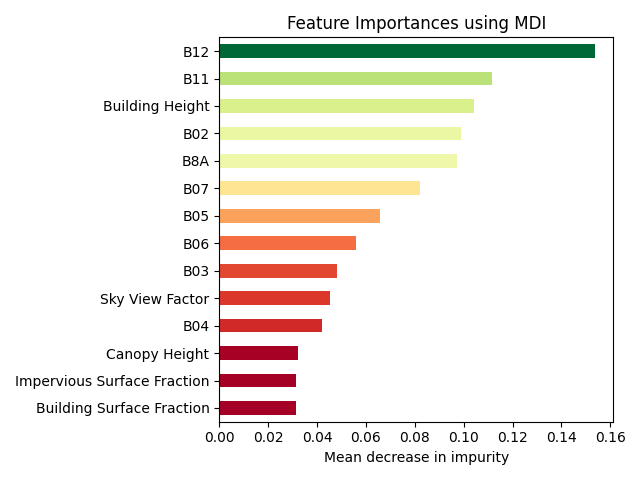
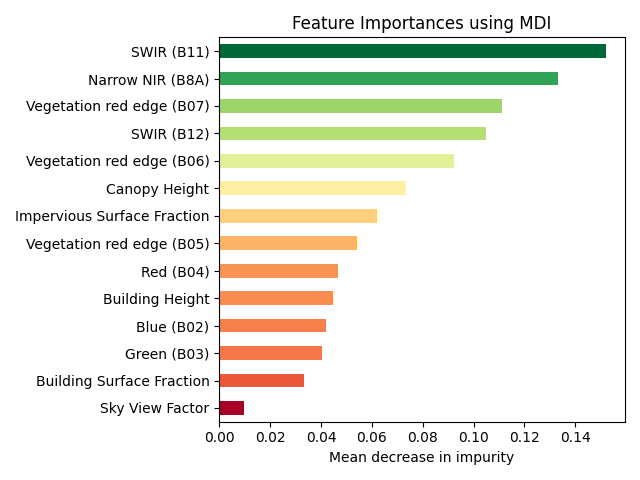
Updated README and Figures

diff --git a/README.md b/README.md
@@ -1,38 +1,49 @@
-# Local Climate Zone Classification using Random Forest with Sentinel-2A Imagery and Urban Canopy Parameters
+# Urban Heat Island Analysis using Local Climate Zones Classified by Random Forest Trained on Sentinel-2A Imagery and Urban Canopy Parameters
 
-This project is inspired by **Vavasorri et al. (2024)**:
+**Work in Progress 
 
-Alberto Vavassori, Daniele Oxoli, Giovanna Venuti, Maria Antonia Brovelli, Mario Siciliani de Cumis, Patrizia Sacco, Deodato Tapete, A combined Remote Sensing and GIS-based method for Local Climate Zone mapping using PRISMA and Sentinel-2 imagery, International Journal of Applied Earth Observation and Geoinformation, Volume 131, 2024, 103944, ISSN 1569-8432, https://doi.org/10.1016/j.jag.2024 103944.
-
-
+<img src="reports/figures/lcz_s2_map.png" alt="drawing" width="500"/>
 
 
+### 1. Local Climate Zones
 
-## Sentinel-2 Data Exploration of LCZ Training Areas
+The Urban Heat Island (UHI) effect is a phenomena whereby air temperatures in urban environments are significantly higher when compared to rural areas. Such an effect is largely due to the thermal properties of urban structures, which tend to absorb heat during the day and release it during the night. Traditional studies typically measured UHI using dichotomous urban / rural classification when comparing temperature trends. Such an approach fails to capture the diverse nature of urban areas, whereby building height, compactness and vegetation cover can vary substantially over space. Developed Stewart and Oke (2012), the Local Climate Zone (LCZ) classification scheme aims to characterise The scheme comprises 17 zones based mainly on properties of surface structure (e.g., building and tree height & density) and surface cover (pervious vs. impervious). Each zone is local in scale, meaning it represents horizontal distances of 100s of metres to several kilometres.  The scheme is a logical starting point for WUDAPT’s aim to gather consistent information across cities globally.
 
-### Pixel Counts 
 
-<img src="reports/figures/s2_pixel_counts.png" alt="drawing" width="500"/>
+### 2. A Toronto Case Study
 
-### Spectral Signature 
+This project explores the application of LCZs for understanding the UHI in the city of Toronto, Ontario. A study in 2021 found that Toronto experienced an annual average daytime UHI intensity of 4.3 C (Duan et al. 2024).
+
+Primary Objectives:
+1. Train a Random Forest classifier on Sentinel-2 Imagery and GIS-derived Urban Canopy Parameters to predict LCZ classes for the Greater Toronto Area
+2. Benchmark performance of the trained model to that of the LCZ Generator
+3. Analyze the Urban Heat Island Effect in the Greater Toronto Area using classified LCZs
+
+
+### 3. Random Forest Classifiication
+
+A Random Forest Classifier on Sentinel-2 imagery and GIS-derived Urban Canopy Parameters to predict LCZ classes, data processing, data exploration and model assessment followsthe methodology from Vavasorri et al. (2024).
+
+#### Spectral Signature 
 
 <img src="reports/figures/s2_spectral_signature.png" alt="drawing" width="500"/>
 
 
-### Jeffries-Matuista Distance
+#### Jeffries-Matuista Distance
 
 <img src="reports/figures/s2_jm.png" alt="drawing" width="500"/>
 
+#### Confusion Matrix
 
+<img src="reports/figures/s2_cm.png" alt="drawing" width="700"/>
 
-
-## Training Random Forest to Classify LCZs on Sentinel-2 Imagery
-
-### Confusion Matrix
-
-<img src="reports/figures/s2_cm.png" alt="drawing" width="500"/>
-
-### Feature Importances
+#### Feature Importances
 <img src="reports/figures/s2_fi.png" alt="drawing" width="500"/>
 
 
+### References
+
+**Vavasorri et al. (2024)**:
+Alberto Vavassori, Daniele Oxoli, Giovanna Venuti, Maria Antonia Brovelli, Mario Siciliani de Cumis, Patrizia Sacco, Deodato Tapete, A combined Remote Sensing and GIS-based method for Local Climate Zone mapping using PRISMA and Sentinel-2 imagery, International Journal of Applied Earth Observation and Geoinformation, Volume 131, 2024, 103944, ISSN 1569-8432, https://doi.org/10.1016/j.jag.2024 103944.
+
+Stewart ID, Oke TR. Local Climate Zones for Urban Temperature Studies. Bull Am Meteorol Soc. 2012;93(12):1879-1900. doi:10.1175/BAMS-D-11-00019.1
